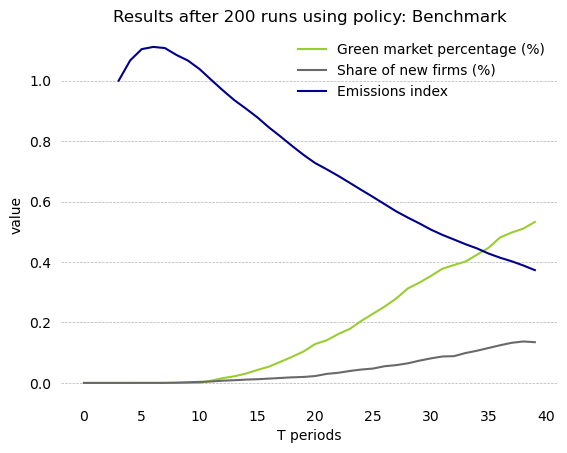
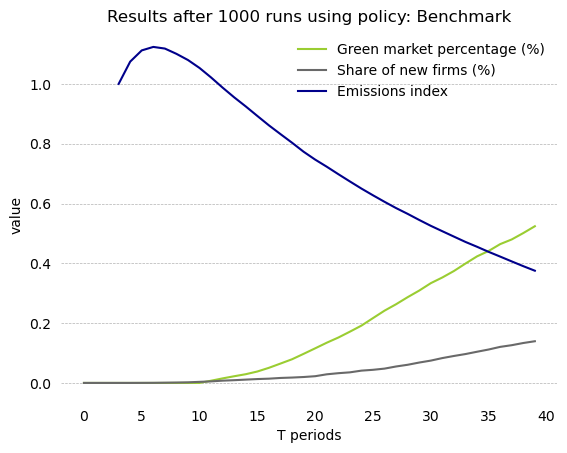
new pictures

diff --git a/generalization.py b/generalization.py
@@ -103,7 +103,7 @@ def plot_policies(results, levels, n):
 
 
 def policies(n=10, n_jobs=1):
-    levels = [round(lev, 1) for lev in linspace(.1, .9, 9)]
+    levels = [round(lev, 1) for lev in linspace(.1, .9, 18)]
     pols = [None, 'tax', 'discount', 'green_support', 'max_e']
     results = dict()
     for pol in pols:
@@ -139,7 +139,7 @@ def benchmark(n=10):
 
 if __name__ == '__main__':
     t0 = time.time()
-    m = 200
+    m = 1000
     # Number of jobs is cpus that will run simultaneously
     jobs = 16
     benchmark(m)
